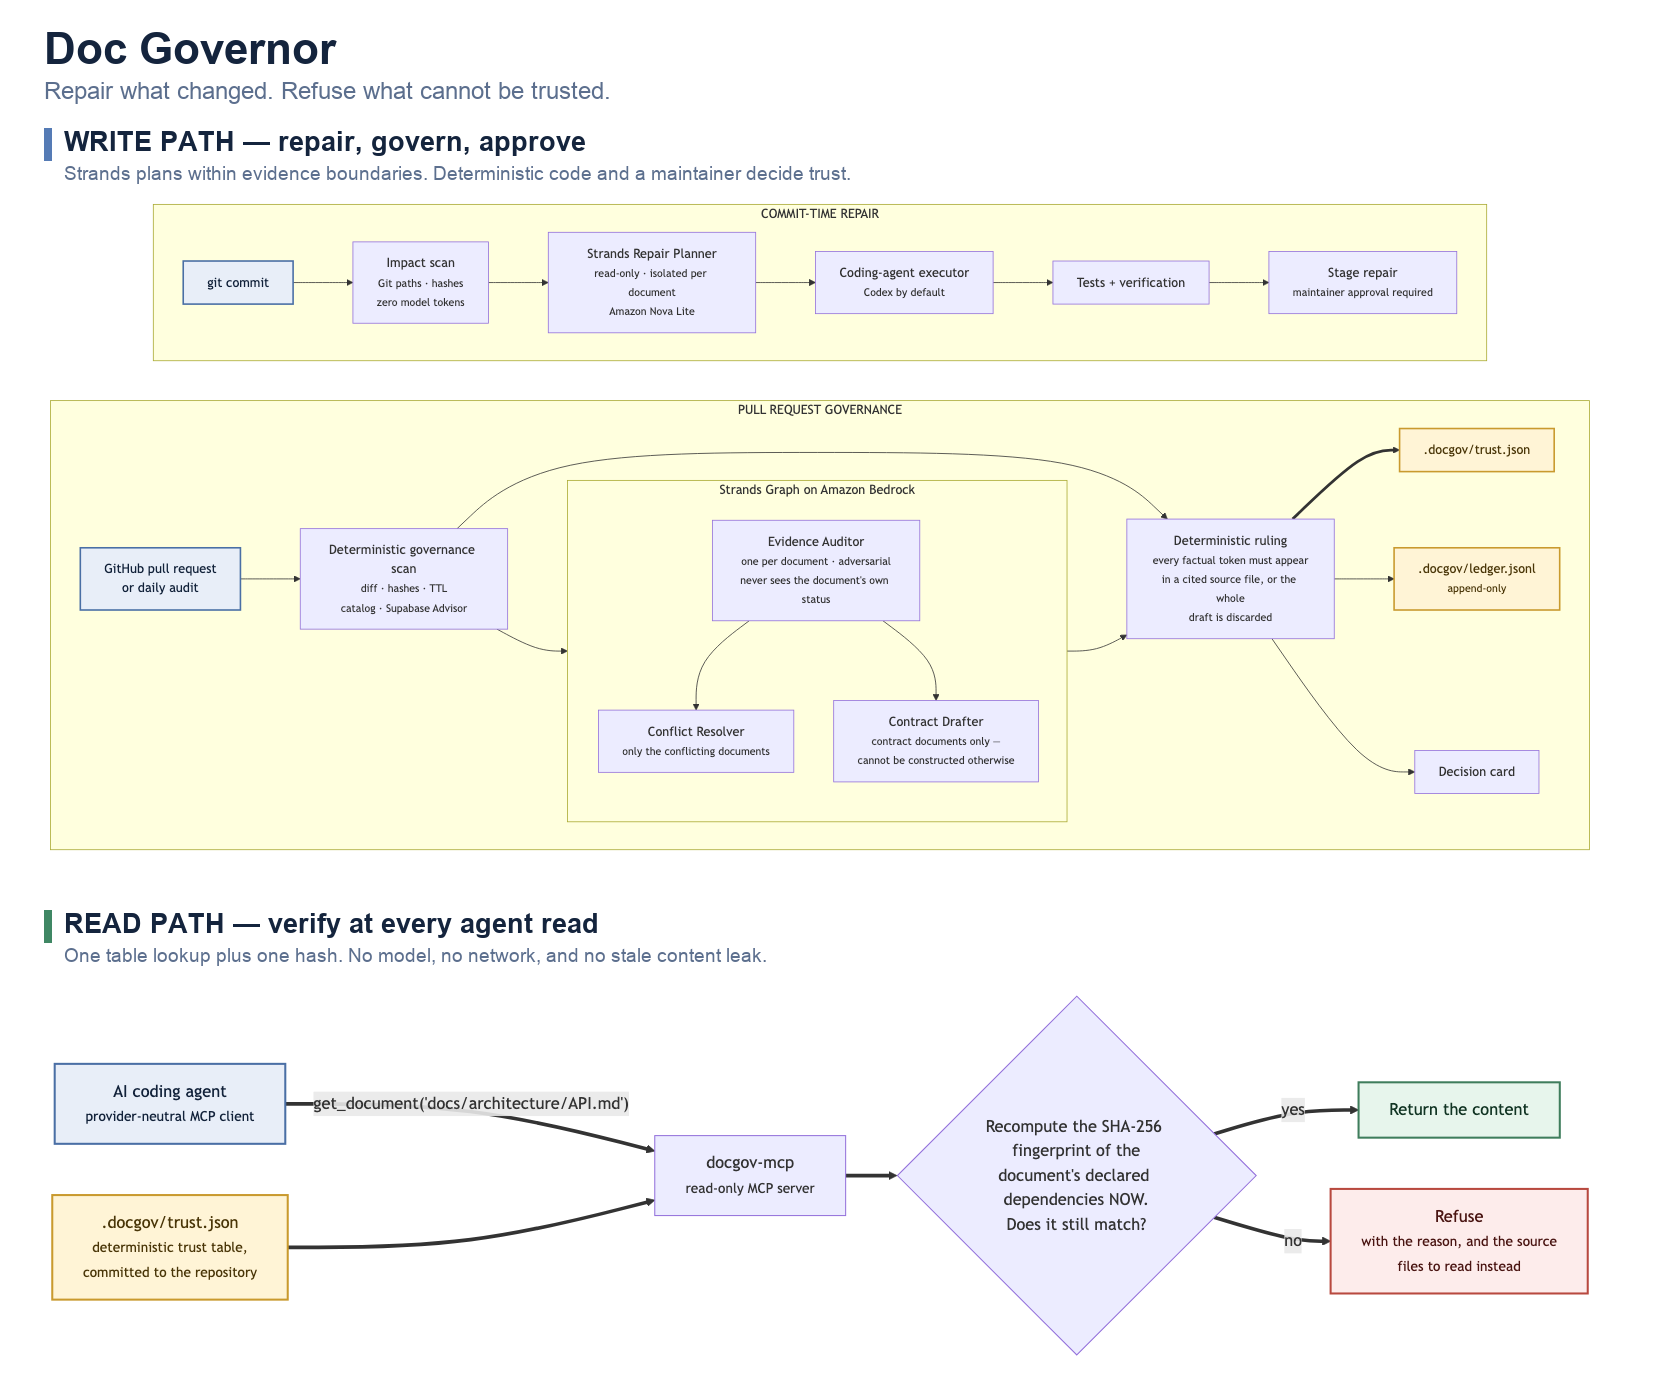
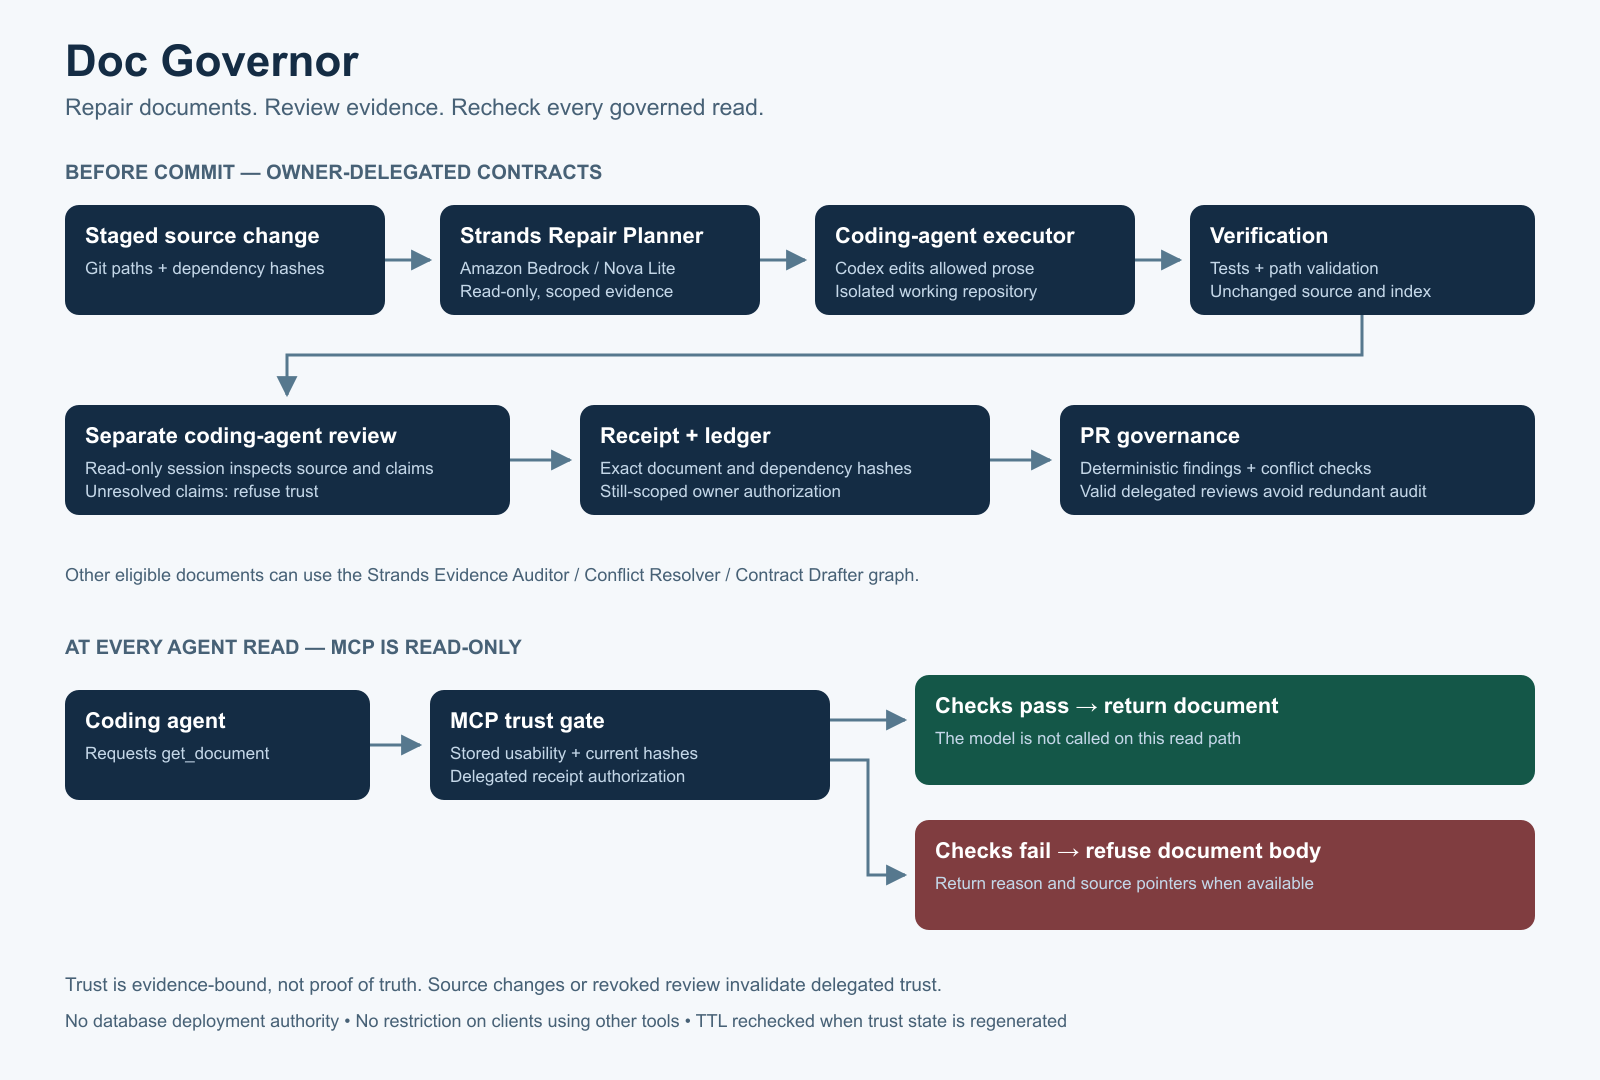
docs: align submission assets with verified agent workflow

diff --git a/submission/README.md b/submission/README.md
@@ -1,21 +1,12 @@
-# Submission materials
+# Submission assets
 
-| File | What it is |
-| --- | --- |
-| `devpost.json` | The Devpost project copy: tagline, description, built-with, disclosure. |
-| `video-script.txt` | The ≤5 minute demo script, with a pre-recording checklist. |
-| `architecture.png` | The gallery image. Devpost requires an uploaded image; a README link does not count. |
-| `architecture-write-path.mmd`, `architecture-read-path.mmd` | Mermaid sources for the two bands in that image. |
+- `devpost.json`: English project description, technology list, and source disclosure.
+- `architecture.png`: architecture gallery image.
+- `architecture.svg`: scalable, editable version of the same image.
+- `architecture-write-path.mmd` and `architecture-read-path.mmd`: editable diagram sources.
 
-## Regenerating the architecture image
+Run instructions and credential-free testing are in the repository README. The public fixture uses synthetic data; Firstgram is a separate private integration and is not required to test Doc Governor.
 
-```sh
-npm install -g @mermaid-js/mermaid-cli
-mmdc -i submission/architecture-write-path.mmd -o /tmp/write.png -b white -s 2
-mmdc -i submission/architecture-read-path.mmd  -o /tmp/read.png  -b white -s 2
-```
+The official rules require a public demonstration video of at most five minutes and an AWS Builder ID in the submission. Those are Devpost submission fields, not proof supplied by this repository. Video scripts and recording drafts are not included in this source package.
 
-The two renders are then stacked under a title band. The bands are kept as separate
-Mermaid files on purpose: Mermaid lays a single graph containing both paths out either
-as a very tall column or a very wide strip, and neither is legible as a gallery
-thumbnail.
+Rules: https://agentsforhumans.devpost.com/rules
